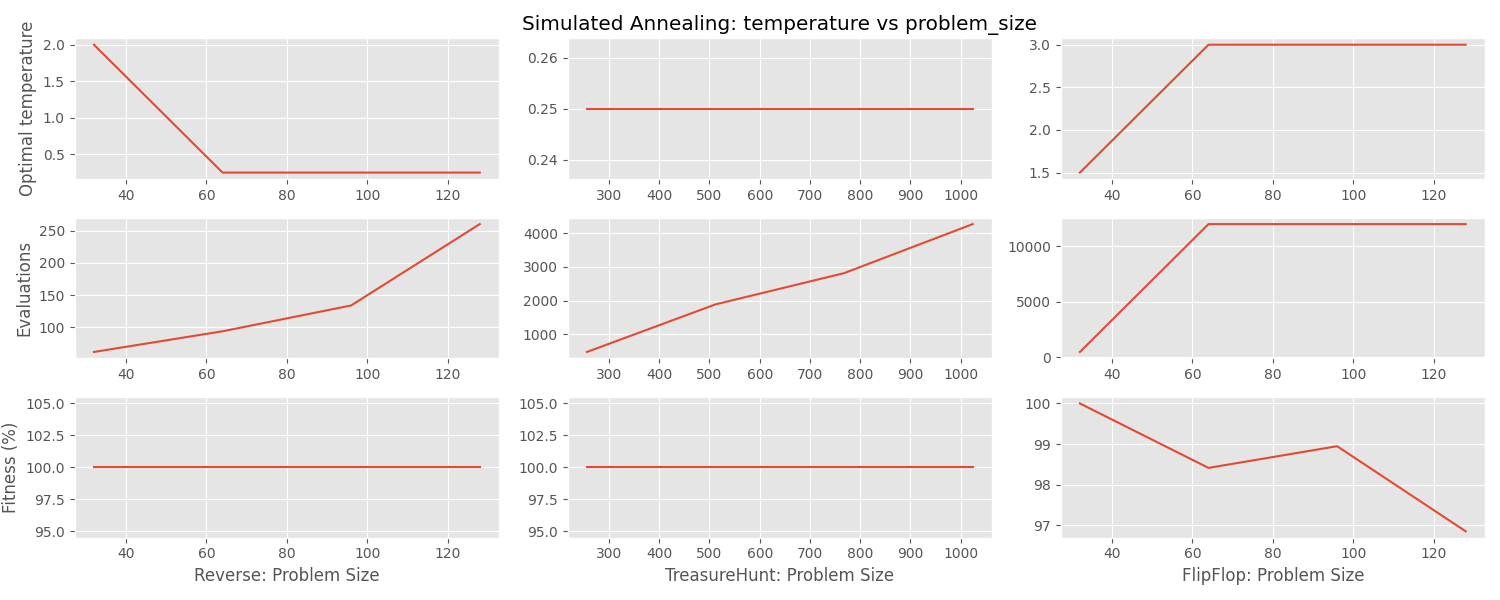
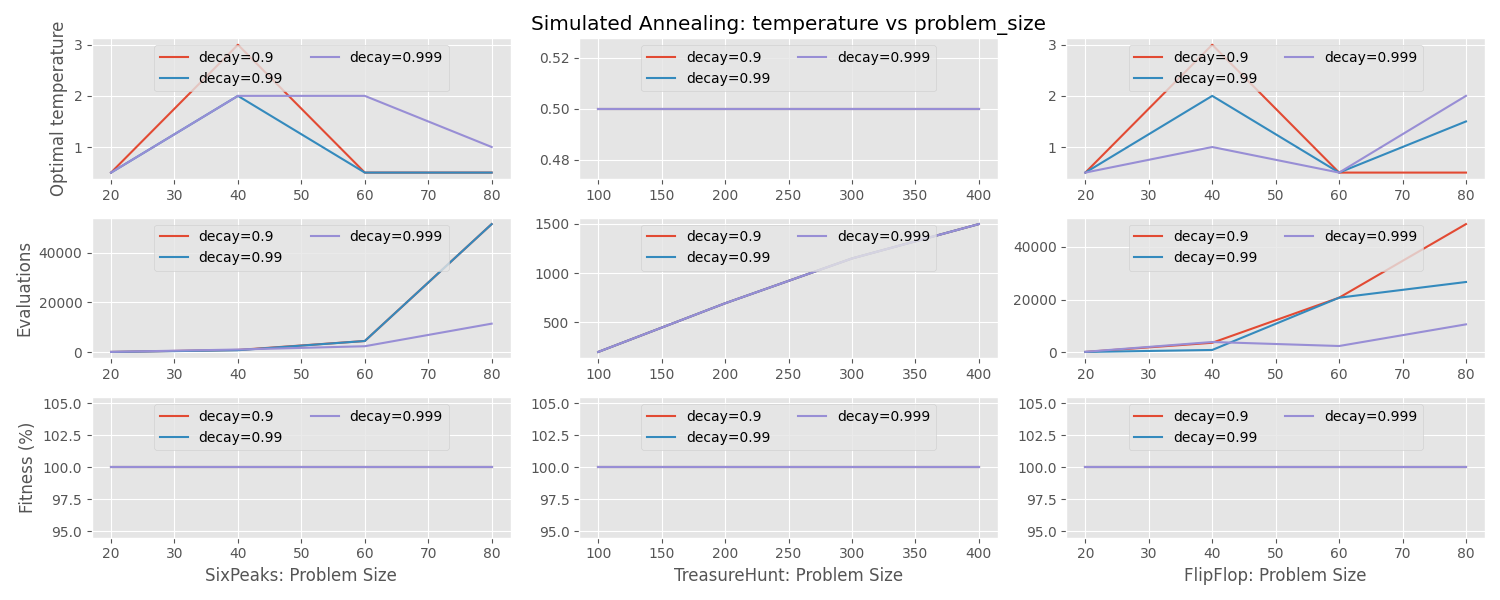
Add all experiments

diff --git a/experiments.py b/experiments.py
@@ -4,26 +4,32 @@ from problems import *
 from algorithms import *
 import numpy as np
 import matplotlib.pyplot as plt
+from joblib import delayed, Parallel
 
 PROBLEM_SIZES = {
-    Reverse: (32, 32 * 2, 32 * 3, 32 * 4),
-    TreasureHunt: (256, 256 * 2, 256 * 3, 256 * 4),
-    FlipFlop: (32, 32 * 2, 32 * 3, 32 * 4),
+    SixPeaks: (20, 20 * 2, 20 * 3, 20 * 4),
+    TreasureHunt: (100, 100 * 2, 100 * 3, 100 * 4),
+    FlipFlop: (20, 20 * 2, 20 * 3, 20 * 4),
 }
 
 
 def vary_parameter(algo_cls, kwargs, key, values):
-    max_steps = 12_000
+    max_steps = 120_000
     readings = []
-    for v in values:
+    best = kwargs["problem"].max()
+
+    def test_parameter(v):
         np.random.seed(0)
         random.seed(42)
         algo = algo_cls(**kwargs, **{key: v})
-        best = kwargs["problem"].max()
         _, f_best, curve = algo.run(max_steps, best)
-        f_best = (f_best / best) * 100
-        readings.append((-f_best, curve.evals, v))
+        return (-f_best, curve.evals, v)
+
+    readings = list(
+        Parallel(n_jobs=len(values))(delayed(test_parameter)(v) for v in values)
+    )
     readings.sort()
+    print(readings)
     return readings[0]
 
 
@@ -34,12 +40,15 @@ def algo_by_params(algo_cls, kwargs, key, values):
         best_evals = []
         best_fitness = []
         for size in PROBLEM_SIZES[prob_cls]:
+            print(prob_cls.__name__, size)
+            np.random.seed(1234)
+            random.seed(1234)
             prob = prob_cls(size)
             kwargs.update({"problem": prob})
             f_best, n_evals, value = vary_parameter(algo_cls, kwargs, key, values)
             best_values.append(value)
             best_evals.append(n_evals)
-            best_fitness.append(-f_best)
+            best_fitness.append(-f_best * 100.0 / prob.max())
 
         readings[prob_cls.__name__] = (
             PROBLEM_SIZES[prob_cls],
@@ -50,8 +59,20 @@ def algo_by_params(algo_cls, kwargs, key, values):
     return readings
 
 
-def plot_all(readings):
-    keys = ["Reverse", "TreasureHunt", "FlipFlop"]
+def run_or_load_cached(path, **kwargs):
+    if os.path.exists(path + ".json"):
+        readings = json.load(open(path + ".json", "r"))
+    else:
+        readings = algo_by_params(**kwargs)
+        json.dump(readings, open(path + ".json", "w"))
+    return readings
+
+
+def run_experiment(title, ylabel, chart_key, **kwargs):
+    path = f"readings/{chart_key}"
+    readings = run_or_load_cached(path, **kwargs)
+
+    keys = ["SixPeaks", "TreasureHunt", "FlipFlop"]
     fig, ax = plt.subplots(
         ncols=3,
         nrows=3,
@@ -63,22 +84,40 @@ def plot_all(readings):
         ax[1, i].plot(x, y2)
         ax[2, i].plot(x, y3)
         ax[2, i].set_xlabel(f"{k}: Problem Size")
-    return fig, ax
-
-
-def run_experiment(title, ylabel, key, *args, **kwargs):
-    path = f"readings/{key}"
-    if os.path.exists(path + ".json"):
-        readings = json.load(open(path + ".json", "r"))
-    else:
-        readings = algo_by_params(*args, **kwargs)
-        json.dump(readings, open(path + ".json", "w"))
-
-    fig, ax = plot_all(readings)
     ax[0, 0].set_ylabel(ylabel)
     ax[1, 0].set_ylabel("Evaluations")
     ax[2, 0].set_ylabel("Fitness (%)")
     ax[0, 1].set_title(title)
+    fig.tight_layout()
+    fig.savefig(path + ".png")
+
+
+def run_experiment_with_groups(
+    title, ylabel, chart_key, group_key, group_values, **kwargs
+):
+    fig, ax = plt.subplots(ncols=3, nrows=3, figsize=(15, 6))
+    ax[1, 0].set_ylabel("Evaluations")
+    ax[2, 0].set_ylabel("Fitness (%)")
+    ax[0, 0].set_ylabel(ylabel)
+    ax[0, 1].set_title(title)
+
+    for v in group_values:
+        kwargs["kwargs"][group_key] = v
+        path = f"readings/{chart_key}_{v}"
+        label = f"{group_key}={v}"
+        readings = run_or_load_cached(path, **kwargs)
+
+        for i, k in enumerate(["SixPeaks", "TreasureHunt", "FlipFlop"]):
+            x, y1, y2, y3 = readings[k]
+            ax[0, i].plot(x, y1, label=label)
+            ax[1, i].plot(x, y2, label=label)
+            ax[2, i].plot(x, y3, label=label)
+            ax[2, i].set_xlabel(f"{k}: Problem Size")
+
+    for i in ax.reshape(-1):
+        i.legend(loc="upper center", ncol=2)
+
+    path = f"readings/{chart_key}"
     fig.tight_layout()
     fig.savefig(path + ".png")
 
@@ -90,9 +129,9 @@ if __name__ == "__main__":
         "Hill Climbing: max_attempts vs problem_size",
         "Optimal max_attempts",
         "hill_climbing_attempts_by_size",
-        HillClimbing,
-        {"soft": False},
-        "max_attempts",
+        algo_cls=HillClimbing,
+        kwargs={"soft": False},
+        key="max_attempts",
         values=[20, 40, 60, 80, 100],
     )
 
@@ -100,28 +139,80 @@ if __name__ == "__main__":
         "Soft Hill Climbing: max_attempts vs problem_size",
         "Optimal max_attempts",
         "soft_hill_climbing_attempts_by_size",
-        HillClimbing,
-        {"soft": True},
-        "max_attempts",
+        algo_cls=HillClimbing,
+        kwargs={"soft": True},
+        key="max_attempts",
         values=[20, 40, 60, 80, 100],
     )
 
-    run_experiment(
+    run_experiment_with_groups(
         "Simulated Annealing: temperature vs problem_size",
         "Optimal temperature",
         "annealing_temperature_by_size",
-        Annealing,
-        {"decay": 0.99, "min": 0.01, "max_attempts": 30},
-        "T",
-        values=[0.25, 0.5, 1, 1.5, 2, 3, 4],
+        group_key="decay",
+        group_values=[0.9, 0.99, 0.999],
+        algo_cls=Annealing,
+        kwargs={"min": 0.01, "max_attempts": 30},
+        key="T",
+        values=[0.5, 1, 1.5, 2, 3, 4],
     )
 
-    run_experiment(
-        "Genetic Algorithm: population vs problem_size",
-        "Optimal temperature",
+    run_experiment_with_groups(
+        "Genetic Algorithm with Uniform Cross-over: population vs problem_size",
+        "Optimal population size",
         "ga_population_vs_size",
-        Genetic,
-        {"keep_pct": 0.5, "combine_fn": bitstrings.cut_combine},
-        "K",
-        values=[50, 100, 200, 300, 400],
+        algo_cls=Genetic,
+        group_key="keep_pct",
+        group_values=[0.2, 0.4, 0.6],
+        kwargs={"combine_fn": bitstrings.splice_combine},
+        key="K",
+        values=[10, 25, 50, 100, 200],
+    )
+
+    run_experiment_with_groups(
+        "Genetic Algorithm with Cut Cross-over: population vs problem_size",
+        "Optimal population size",
+        "cut_ga_population_vs_size",
+        algo_cls=Genetic,
+        group_key="keep_pct",
+        group_values=[0.2, 0.4, 0.6],
+        kwargs={"combine_fn": bitstrings.cut_combine},
+        key="K",
+        values=[10, 25, 50, 100, 200],
+    )
+
+    run_experiment_with_groups(
+        "MIMIC: population vs problem_size",
+        "Optimal population size",
+        "mimic_population_vs_size",
+        algo_cls=Mimic,
+        group_key="keep_pct",
+        group_values=[0.2, 0.4, 0.6],
+        kwargs={"clip": 0},
+        key="K",
+        values=[100, 200, 300, 400],
+    )
+
+    run_experiment_with_groups(
+        "Clipped MIMIC: population vs problem_size",
+        "Optimal population size",
+        "mimic_population_vs_size",
+        algo_cls=Mimic,
+        group_key="keep_pct",
+        group_values=[0.2, 0.4, 0.6],
+        kwargs={"clip": 0},
+        key="K",
+        values=[100, 200, 300, 400],
+    )
+
+    run_experiment_with_groups(
+        "Clipped MIMIC: population vs problem_size",
+        "Optimal population size",
+        "clipped_mimic_population_vs_size",
+        algo_cls=Mimic,
+        group_key="keep_pct",
+        group_values=[0.2, 0.4, 0.6],
+        kwargs={"clip": 0.01},
+        key="K",
+        values=[100, 200, 300, 400],
     )

diff --git a/algorithms.py b/algorithms.py
@@ -124,7 +124,7 @@ class Genetic(Algorithm):
         super().__init__(problem)
         self.keep_pct = keep_pct
         self.combine_fn = combine_fn
-        self.P = [bitstrings.random_generate() for _ in range(K)]
+        self.P = [problem.sample() for _ in range(K)]
         self.F = list(map(self.problem.fitness, self.P))
         self.logger.evals += len(self.F) - 1
 
@@ -161,7 +161,7 @@ class Mimic(Algorithm):
         self.clip = clip
 
         # Initialize uniform distribution
-        N = len(bitstrings.random_generate())
+        N = len(problem.sample())
         self.prob = {}
         self.parent = {}
         for i in range(N):
@@ -240,6 +240,8 @@ class Mimic(Algorithm):
                 if j > i:
                     continue
                 mi = self.mutual_information(P[:, i], P[:, j])
+                if mi == 1:
+                    break
                 I.append((-mi, (i, j)))
         return P, I
 
@@ -305,16 +307,16 @@ class Mimic(Algorithm):
 if __name__ == "__main__":
     np.random.seed(1234)
     random.seed(1234)
-    problem = TreasureHunt()
+    problem = TreasureHunt(512)
 
-    n_evals = 1_200_00
+    n_evals = 1_200_0
 
     print("Hill Climbing")
     np.random.seed(0)
     random.seed(42)
     algo = HillClimbing(100, True, problem)
     x_best, f_best, hc = algo.run(n_evals, problem.max())
-    print(x_best, f_best, hc.evals)
+    print(x_best, f_best / problem.max(), hc.evals)
     print()
 
     print("Annealing")
@@ -322,15 +324,15 @@ if __name__ == "__main__":
     random.seed(42)
     algo = Annealing(1, 0.99, 0.05, 100, problem)
     x_best, f_best, annealing = algo.run(n_evals, problem.max())
-    print(x_best, f_best, annealing.evals)
+    print(x_best, f_best / problem.max(), annealing.evals)
     print()
 
     print("Genetic")
     np.random.seed(0)
     random.seed(42)
-    algo = Genetic(50, 0.2, bitstrings.splice_combine, problem)
+    algo = Genetic(10, 0.4, bitstrings.cut_combine, problem)
     x_best, f_best, genetic = algo.run(n_evals, problem.max())
-    print(x_best, f_best, genetic.evals)
+    print(x_best, f_best / problem.max(), genetic.evals)
     print()
 
     print("MIMIC")
@@ -338,7 +340,7 @@ if __name__ == "__main__":
     random.seed(42)
     algo = Mimic(200, 0.25, 0.01, problem)
     x_best, f_best, mimic = algo.run(n_evals, problem.max())
-    print(x_best, f_best, mimic.evals)
+    print(x_best, f_best / problem.max(), mimic.evals)
     print()
 
     plt.figure()

diff --git a/problems.py b/problems.py
@@ -1,7 +1,4 @@
 from math import ceil
-import random
-
-from regex import D
 import bitstrings
 import numpy as np
 import mlrose_hiive as mlrose
@@ -24,15 +21,18 @@ class BitStringProblem:
         return bitstrings.random_generate(self.k)
 
 
-class Reverse(BitStringProblem):
+class SixPeaks(BitStringProblem):
+    def __init__(self, k):
+        super().__init__(k)
+        self.fn = mlrose.SixPeaks()
+
     def max(self):
-        return len(self.sample())
+        n = len(self.sample())
+        t = ceil(n * 0.1)
+        return 2 * n - (t + 1)
 
     def fitness(self, x):
-        out = 0
-        for i in range(len(x)):
-            out += int(x[i] == x[-i - 1])
-        return out
+        return self.fn.evaluate(np.array(list(map(int, list(x)))))
 
 
 class TreasureHunt(BitStringProblem):
@@ -55,6 +55,10 @@ class TreasureHunt(BitStringProblem):
 
 
 class FlipFlop(BitStringProblem):
+    def __init__(self, k):
+        super().__init__(k)
+        self.fn = mlrose.SixPeaks()
+
     def fitness(self, x):
         out = 0
         for i, c in enumerate(x[1:]):

diff --git a/bitstrings.py b/bitstrings.py
@@ -2,7 +2,7 @@ import random
 import numpy as np
 
 
-def random_generate(length=1024):
+def random_generate(length):
     return "".join([str(random.randint(0, 1)) for _ in range(length)])
 
 
